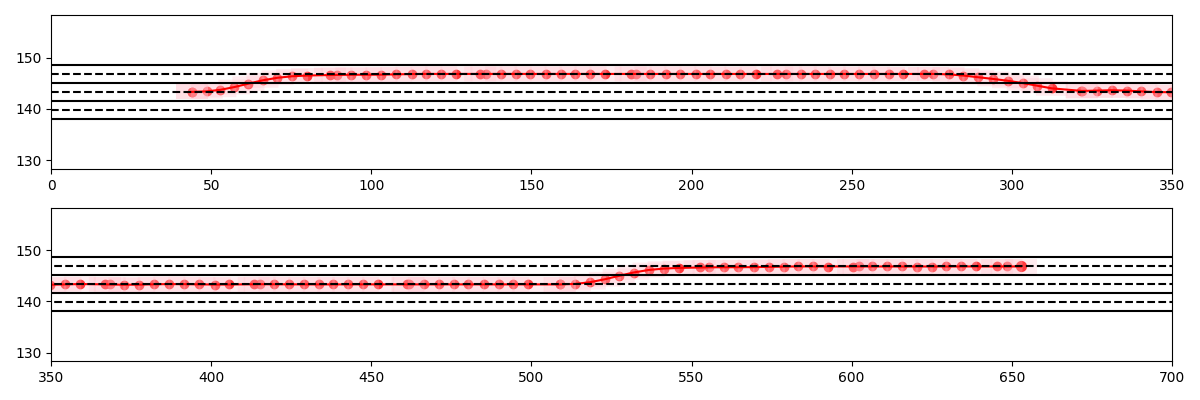
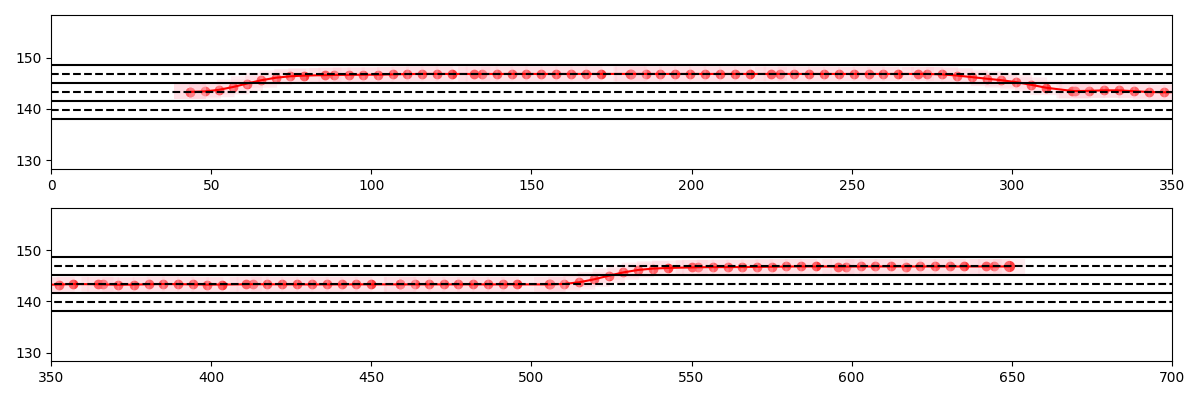
add ekf

Changed region(s): [[0.0308, 0.63, 0.8633, 0.75], [0.2158, 0.15, 0.9867, 0.24], [0.1542, 0.21, 0.2158, 0.24]]

diff --git a/Mid_Term_Test/test_complex_env_makeController _EKF.py b/Mid_Term_Test/test_complex_env_makeController _EKF.py
@@ -8,6 +8,7 @@ from Controllers import makeController, makeDecisionMaster
 from vehicle_model import car_VehicleModel
 from Traffic import Traffic
 from Scenarios import trailing, simpleOvertake
+from kalman_filter import kalman_filter
 from util.utils import *
 
 sys.path.append(r'C:\Users\A490243\CARLA\CARLA_Latest\WindowsNoEditor\PythonAPI\carla')
@@ -26,7 +27,7 @@ from agents.navigation.controller import VehiclePIDController
 
 
 makeMovie = True
-directory = r"C:\Users\A490243\Desktop\Master_Thesis\Figure\crazy_traffic_mix3.gif"
+directory = r"C:\Users\A490243\Desktop\Master_Thesis\Figure\crazy_traffic_mix3_EKF.gif"
 
 ## ! --------------------------------------System initialization--------------------------------------------
 dt = 0.3                  # Simulation time step (Impacts traffic model accuracy)
@@ -54,7 +55,6 @@ time.sleep(1)
 px_init,py_init,vx_init=traffic.getStates()[:3,1] # get the initial position of the truck
 truck = traffic.getEgo()  # get the ego vehicle
 
-
 ## ! -----------------------------------initialize the local controller-----------------------------------------
 local_controller = VehiclePIDController(truck, 
                                         args_lateral = {'K_P': 1.2, 'K_I': 0.2, 'K_D': 0.5, 'dt': dt_PID}, 
@@ -64,7 +64,6 @@ local_controller = VehiclePIDController(truck,
 # while(True):
 #     control_Truck = local_controller.run_step(ref_vx*3.6-50, 143.318146, False)
 #     truck.apply_control(control_Truck)
-
 
 ## ! -----------------------------------initialize the VehicleModel-----------------------------------------
 vehicleADV = car_VehicleModel(dt,N)
@@ -78,14 +77,12 @@ vehicleADV.cost(Q_ADV,R_ADV)
 vehicleADV.costf(Q_ADV)
 L_ADV,Lf_ADV = vehicleADV.getCost()
 
-
 ## ! --------------------------------------- Problem definition ---------------------------------------------
 scenarioTrailADV = trailing(vehicleADV,N,lanes = 3,v_legal = ref_vx, laneWidth=laneWidth)
 scenarioTrailADV.slackCost(q_traffic_slack)
 #TODO: ADD scenarioADV LATTER
 scenarioADV = simpleOvertake(vehicleADV,N,lanes = 3,v_legal = ref_vx,laneWidth=laneWidth)
 scenarioADV.slackCost(q_traffic_slack)
-
 #! get road INFOS
 roadMin, roadMax, laneCenters, _ = scenarioTrailADV.getRoad()
 #! initilize the ego vehicle
@@ -98,28 +95,34 @@ vehicleADV.setInit([px_init,py_init],ref_vx )
 #!      Formulate optimal control problem using opti framework
 #! -----------------------------------------------------------------
 #! -----------------------------------------------------------------
-
-
-
-
-
 opts1 = {"version" : "leftChange", "solver": "ipopt", "integrator":"LTI"}
 MPC_LC= makeController(vehicleADV,traffic,scenarioADV,N,opts1,dt)
 MPC_LC.setController()
 #TODO: MPC_LC.setController()
-
 opts2 = {"version" : "rightChange", "solver": "ipopt", "integrator":"LTI"}
 MPC_RC= makeController(vehicleADV,traffic,scenarioADV,N,opts2,dt)
 MPC_RC.setController()
-
 opts3 = {"version" : "trailing", "solver": "ipopt", "integrator":"LTI"}
 MPC_trailing= makeController(vehicleADV,traffic,scenarioTrailADV,N,opts3,dt)
 MPC_trailing.setController()
-
-
 print("INFO:  Initilization succesful.")               
-
-                                                                                          
+# !----------------- Kalman Filter Settings ------------------------   
+sigma_process=0.01
+sigma_measurement=0.01
+Q_0=np.eye(nx)*sigma_process**2
+Q_0[0,0]=1  # x bound is [0, 3]
+Q_0[1,1]=0.01**2  # y bound is [0, 0.1]
+Q_0[2,2]=1  # v bound is [0, 1.8]
+Q_0[3,3]=0.01**2  # psi bound is [0, 0.05]
+R_0=np.eye(nx)*sigma_measurement
+R_0[0,0]=0.1**2
+R_0[1,1]=0.1**2 
+R_0[2,2]=0.1**2
+R_0[3,3]=(1/180*np.pi)**2
+P_kf=np.eye(nx)*1  # initial state covariance
+# get system dynamic matrices
+A,B=MPC_trailing.A, MPC_trailing.B
+H=np.eye(nx)   #measurement matrix, y=H@x_iter                                                                                 
 #! -----------------------------------------Initilize Decision Master-----------------------------------------
 decisionMaster = makeDecisionMaster(vehicleADV,traffic,[MPC_LC, MPC_RC, MPC_trailing],
                                 [scenarioTrailADV,scenarioADV])
@@ -130,12 +133,18 @@ decisionMaster.setDecisionCost(q_ADV_decision)                  # Sets cost of c
 # ███████╗██║██╔████╔██║██║   ██║██║     ███████║   ██║   ██║██║   ██║██╔██╗ ██║
 # ╚════██║██║██║╚██╔╝██║██║   ██║██║     ██╔══██║   ██║   ██║██║   ██║██║╚██╗██║
 # ███████║██║██║ ╚═╝ ██║╚██████╔╝███████╗██║  ██║   ██║   ██║╚██████╔╝██║ ╚████║
-tsim = 40                       # Total simulation time in seconds
+tsim = 38                       # Total simulation time in seconds
 Nsim = int(tsim/dt)
 # # Initialize simulation
 x_iter = DM(int(nx),1)
 x_iter[:],u_iter = vehicleADV.getInit()
-vehicleADV.update(x_iter,u_iter)
+#! set the initial state and control input
+x_0 = x_iter
+u_iter = np.array([0,0])
+#! initial the Kalman Filter
+ekf=kalman_filter(A,B,H,x_0,P_kf,Q_0,R_0)       
+#! initial the Vehicle Model
+vehicleADV.update(x_0,u_iter)
 
 refxADV = [0,laneCenters[1],ref_vx,0,0]
 refxT_in, refxL_in, refxR_in = vehicleADV.setReferences(ref_vx)
@@ -192,6 +201,10 @@ for i in range(0,Nsim):
     iteration_start = time.time()
     x_lead[:,:] = traffic.prediction()[0,:,:].transpose()
     traffic_state[:2,:,] = traffic.prediction()[:2,:,:]
+    #! according to R_0 matrix, we add the noise to the measurement
+    r = np.random.normal(0.0, 0.1, size=(nx, 1))
+    r[3]=np.random.normal(0.0, (1/180*np.pi))
+
     if i % f_controller == 0:
         count = 0
         print("----------")
@@ -199,28 +212,37 @@ for i in range(0,Nsim):
         
         decisionMaster.storeInput([x_iter,refxL_out,refxR_out,refxT_out,refu_out,x_lead,traffic_state])
         #TODO: Update reference based on current lane
-        refxL_out,refxR_out,refxT_out = decisionMaster.updateReference()
+        refxL_out,refxR_out,refxT_out = decisionMaster.updateReference(r)
         u_opt, x_opt, X_out, decision_i  = decisionMaster.chooseController()
         Traj_ref = x_opt # Reference trajectory (states)
         # print("INFO: The referenc e of the truck is: ", Traj_ref[1,:])
-        u_iter = u_opt[:,0].reshape(-1,1)
-        X_ref=Traj_ref[:,count] #last element
+        X_ref=Traj_ref[:,count] 
+        u_iter = u_opt[:,count].reshape(-1,1)
         #! get the computed time of the MPC of real time
         print("INFO:  The computation time of the MPC is: ", [time.time()-iteration_start])
         # print("INFO: The reference of the truck is: ", Traj_ref[1,:])
     else: #! when mpc is asleep, the PID will track the Traj_ref step by step
         count = count + 1
         X_ref=Traj_ref[:,count]
+        u_iter = u_opt[:,count].reshape(-1,1)
     for j in range(5):
         control_truck = local_controller.run_step(X_ref[2]*3.6, [X_ref[1],X_ref[0]] , False)
         truck.apply_control(control_truck)
             
     #TODO: Update traffic and store data
-    x_iter = get_state(truck)
+    measurement_truck = get_state(truck) + r
+    # !-----------------  do extended kalman filter ------------------------
+    ekf.predict(u_iter, A, B)  # predict the state
+    ekf.update(measurement_truck)  # update the state
+    truck_estimate = ekf.get_estimate  # get the estimated state
+    P_estimate = ekf.get_covariance  # get the estimated covariance
+    x_iter = truck_estimate
+    # !---------------------------------------------------------------------
+    
     vehicleADV.update(x_iter,u_iter)
-    truck_state = traffic.getStates()[:,1]
-    truck_x, truck_y, truck_v, truck_psi = truck_state[C_k.X_km].item(), truck_state[C_k.Y_km].item(), \
-                                            truck_state[C_k.V_km].item(), truck_state[C_k.Psi].item()
+    truck_state = x_iter
+    truck_x, truck_y, truck_v, truck_psi = float(truck_state[C_k.X_km]), float(truck_state[C_k.Y_km]), \
+                                            float(truck_state[C_k.V_km]), float(truck_state[C_k.Psi])
     X[:,i] = np.array([truck_x, truck_y, truck_v, truck_psi]).reshape(-1,1)
     U[:,i] = u_iter
     X_pred[:,:,i] = X_out
@@ -281,19 +303,19 @@ i_crit = i
                                                 
 figure_dir = r'C:\Users\A490243\Desktop\Master_Thesis\Figure'
 gif_dir = r'C:\Users\A490243\Desktop\Master_Thesis\Figure'
-gif_name = 'CARLA_simulation_Make_Controller_TEST.gif'
+gif_name = 'CARLA_simulation_Make_Controller_TEST_all_EKF.gif'
 # animate_constraints(all_tightened_bounds, truck_positions, car_positions, Trajectory_pred, gif_dir,gif_name)
-figure_name = 'CARLA_simulation_Make_Controller_all_TEST.png'
+figure_name = 'CARLA_simulation_Make_Controller_TEST_all_EKF.png'
 plot_and_save_simulation_data(truck_positions, timestamps, truck_velocities, truck_accelerations, truck_jerks, 
                               car_positions, leading_velocities, ref_velocity, truck_vel_mpc, truck_vel_control, 
                               figure_dir,figure_name)
 
 figure_dir = r'C:\Users\A490243\Desktop\Master_Thesis\Figure'
-figure_name = 'CARLA_simulation_Make_Controller_TEST.png'
+figure_name = 'CARLA_simulation_Make_Controller_TEST_EKF.png'
 plot_kf_trajectory(truck_positions, None, figure_dir, figure_name)
 
 figure_dir = r'C:\Users\A490243\Desktop\Master_Thesis\Figure'
-figure_name = 'CARLA_simulationn_Make_Controller_TEST_ref.png'
+figure_name = 'CARLA_simulationn_Make_Controller_TEST_ref_EKF.png'
 plot_mpc_y_vel(truck_y_mpc, truck_vel_mpc, truck_y_control, truck_vel_control, figure_dir, figure_name)
 
 

diff --git a/Mid_Term_Test/kalman_filter.py b/Mid_Term_Test/kalman_filter.py
@@ -1,0 +1,72 @@
+import numpy as np
+class kalman_filter():
+    """Here is the kalman filter
+    The kalman filter will recieve the A B matrix from the dynamic system
+    Args:
+        F: state transition matrix
+        B: input transition matrix (is None if model has no inputs)
+        C: Observation matrix
+        x0: Initial state vector
+        P0: Initial state covariance matrix
+        Q0: (Initial) state noise covariance
+        R0: (Initial) observation noise covariance
+    """
+    def __init__(self,F,B,C,x0,P0,Q0,R0) -> None:
+        self.F = F
+        self.B = B if B is not None else None
+        self.H = C
+        self.x = x0  # Convert to float
+        self.P = P0
+        self.Q = Q0
+        self.R = R0
+        pass
+    #! Here is the predict step of the kalman filter
+    def predict(self,u=None,F=None,B=None):
+        """Predict the next state of the system
+        if F and B are given, use them to update the system, ekf predict
+        if F and B are not given, use the original system, kf predict
+        Args:
+            u: Input vector
+        """
+        if F is not None and B is not None:
+            self.F = F
+            self.B = B
+        self.x = self.F @ self.x
+        self.P = self.F @ self.P @ self.F.T + self.Q
+        if u is not None:
+            self.x += self.B @ u      
+        pass
+    #! Here is the update step of the kalman filter,
+    #now we did not consider nonlinear measurement
+    def update(self,measurement):
+        """Update the state of the system
+        Args:
+            measurement: Observation vector
+        """
+        y = measurement - self.H @ self.x
+        S = self.H @ self.P @ self.H.T + self.R
+        K = self.P @ self.H.T @ np.linalg.inv(S)
+        self.x += K @ y
+        self.P = (np.eye(self.F.shape[0]) - K @ self.H) @ self.P
+        pass
+    #! Here is the getter of the estimate
+    @property
+    def get_estimate(self):
+        return self.x
+    #! Here is the getter of the covariance
+    @property
+    def get_covariance(self):
+        return self.P
+    @property
+    def get_F_matrix(self):
+        return self.F
+    @property
+    def get_B_matrix(self):
+        return self.B
+    @property
+    def get_predict(self):
+        return self.x
+    @property
+    def get_initial_state(self):
+        return self.x
+    

diff --git a/Mid_Term_Test/Controllers.py b/Mid_Term_Test/Controllers.py
@@ -270,23 +270,6 @@ class makeDecisionMaster:
         self.decisionLog = []
         #! TEST, ADD COST AND DECISION IN THE LOG
         
-    # def checkSolution(self,x_pred_new,u_pred_new):
-    #     """
-    #     Checks if the MPC returned a strange solution
-    #      - If that is the case, fall back to the previous solution
-    #      - The number of times this occurs is presented as "Error count"
-    #     """
-    #     cond1 = (x_pred_new[0,0]) < (self.x_pred[0,0] - self.tol)
-    #     cond2 = ((x_pred_new[1,0] - x_pred_new[1,1]) > 1)
-    #     if  (cond1 or cond2) and (self.consecutiveErrors < self.N-1):
-    #         self.consecutiveErrors += 1
-    #         self.errors += 1
-    #         return self.x_pred[:,self.consecutiveErrors], self.u_pred[:,self.consecutiveErrors], self.x_pred
-    #     else:
-    #         self.consecutiveErrors = 0
-    #         self.x_pred = x_pred_new
-    #         self.u_pred = u_pred_new
-    #         return x_pred_new[:,0], u_pred_new[:,0], self.x_pred
 
     def checkSolution(self, x_pred_new, u_pred_new):
         """
@@ -390,13 +373,13 @@ class makeDecisionMaster:
         
         
         
-    def updateReference(self):
+    def updateReference(self, r=np.zeros((4,1))):
         """
         Updates the y position reference for each controller based on the current lane
         """
         self.scenarios[0].setEgoLane(self.traffic)
-        py_ego = self.vehicle.getPosition()[1]
-        self.egoPx = self.vehicle.getPosition()[0]
+        py_ego = self.vehicle.getPosition()[1] + r[1]
+        self.egoPx = self.vehicle.getPosition()[0]+ r[0]
         print("INFO: Ego position in update is:", self.egoPx)
         refu_in = [0,0,0]                                     # To work with function reference (update?)
 

diff --git a/Test_func/test_kf_mpc_carla.py b/Test_func/test_kf_mpc_carla.py
@@ -130,7 +130,6 @@ R_0[0,0]=0.1**2
 R_0[1,1]=0.1**2 
 R_0[2,2]=0.1**2
 R_0[3,3]=(1/180*np.pi)**2
-
 # set the initial state and control input
 x_0 = x_iter
 P_kf=np.eye(nx)*0.0001  # initial state covariance
@@ -195,7 +194,6 @@ for i in range(1000):
     truck_state = get_state(truck)
    
     #according to R_0 matrix, we add the noise to the measurement
-
     r = np.random.normal(0.0, 0.1, size=(nx, 1))
     r[3]=np.random.normal(0.0, (1/180*np.pi))
     r2 = np.random.normal(0.0, sigma_process, size=(nx, 1))
